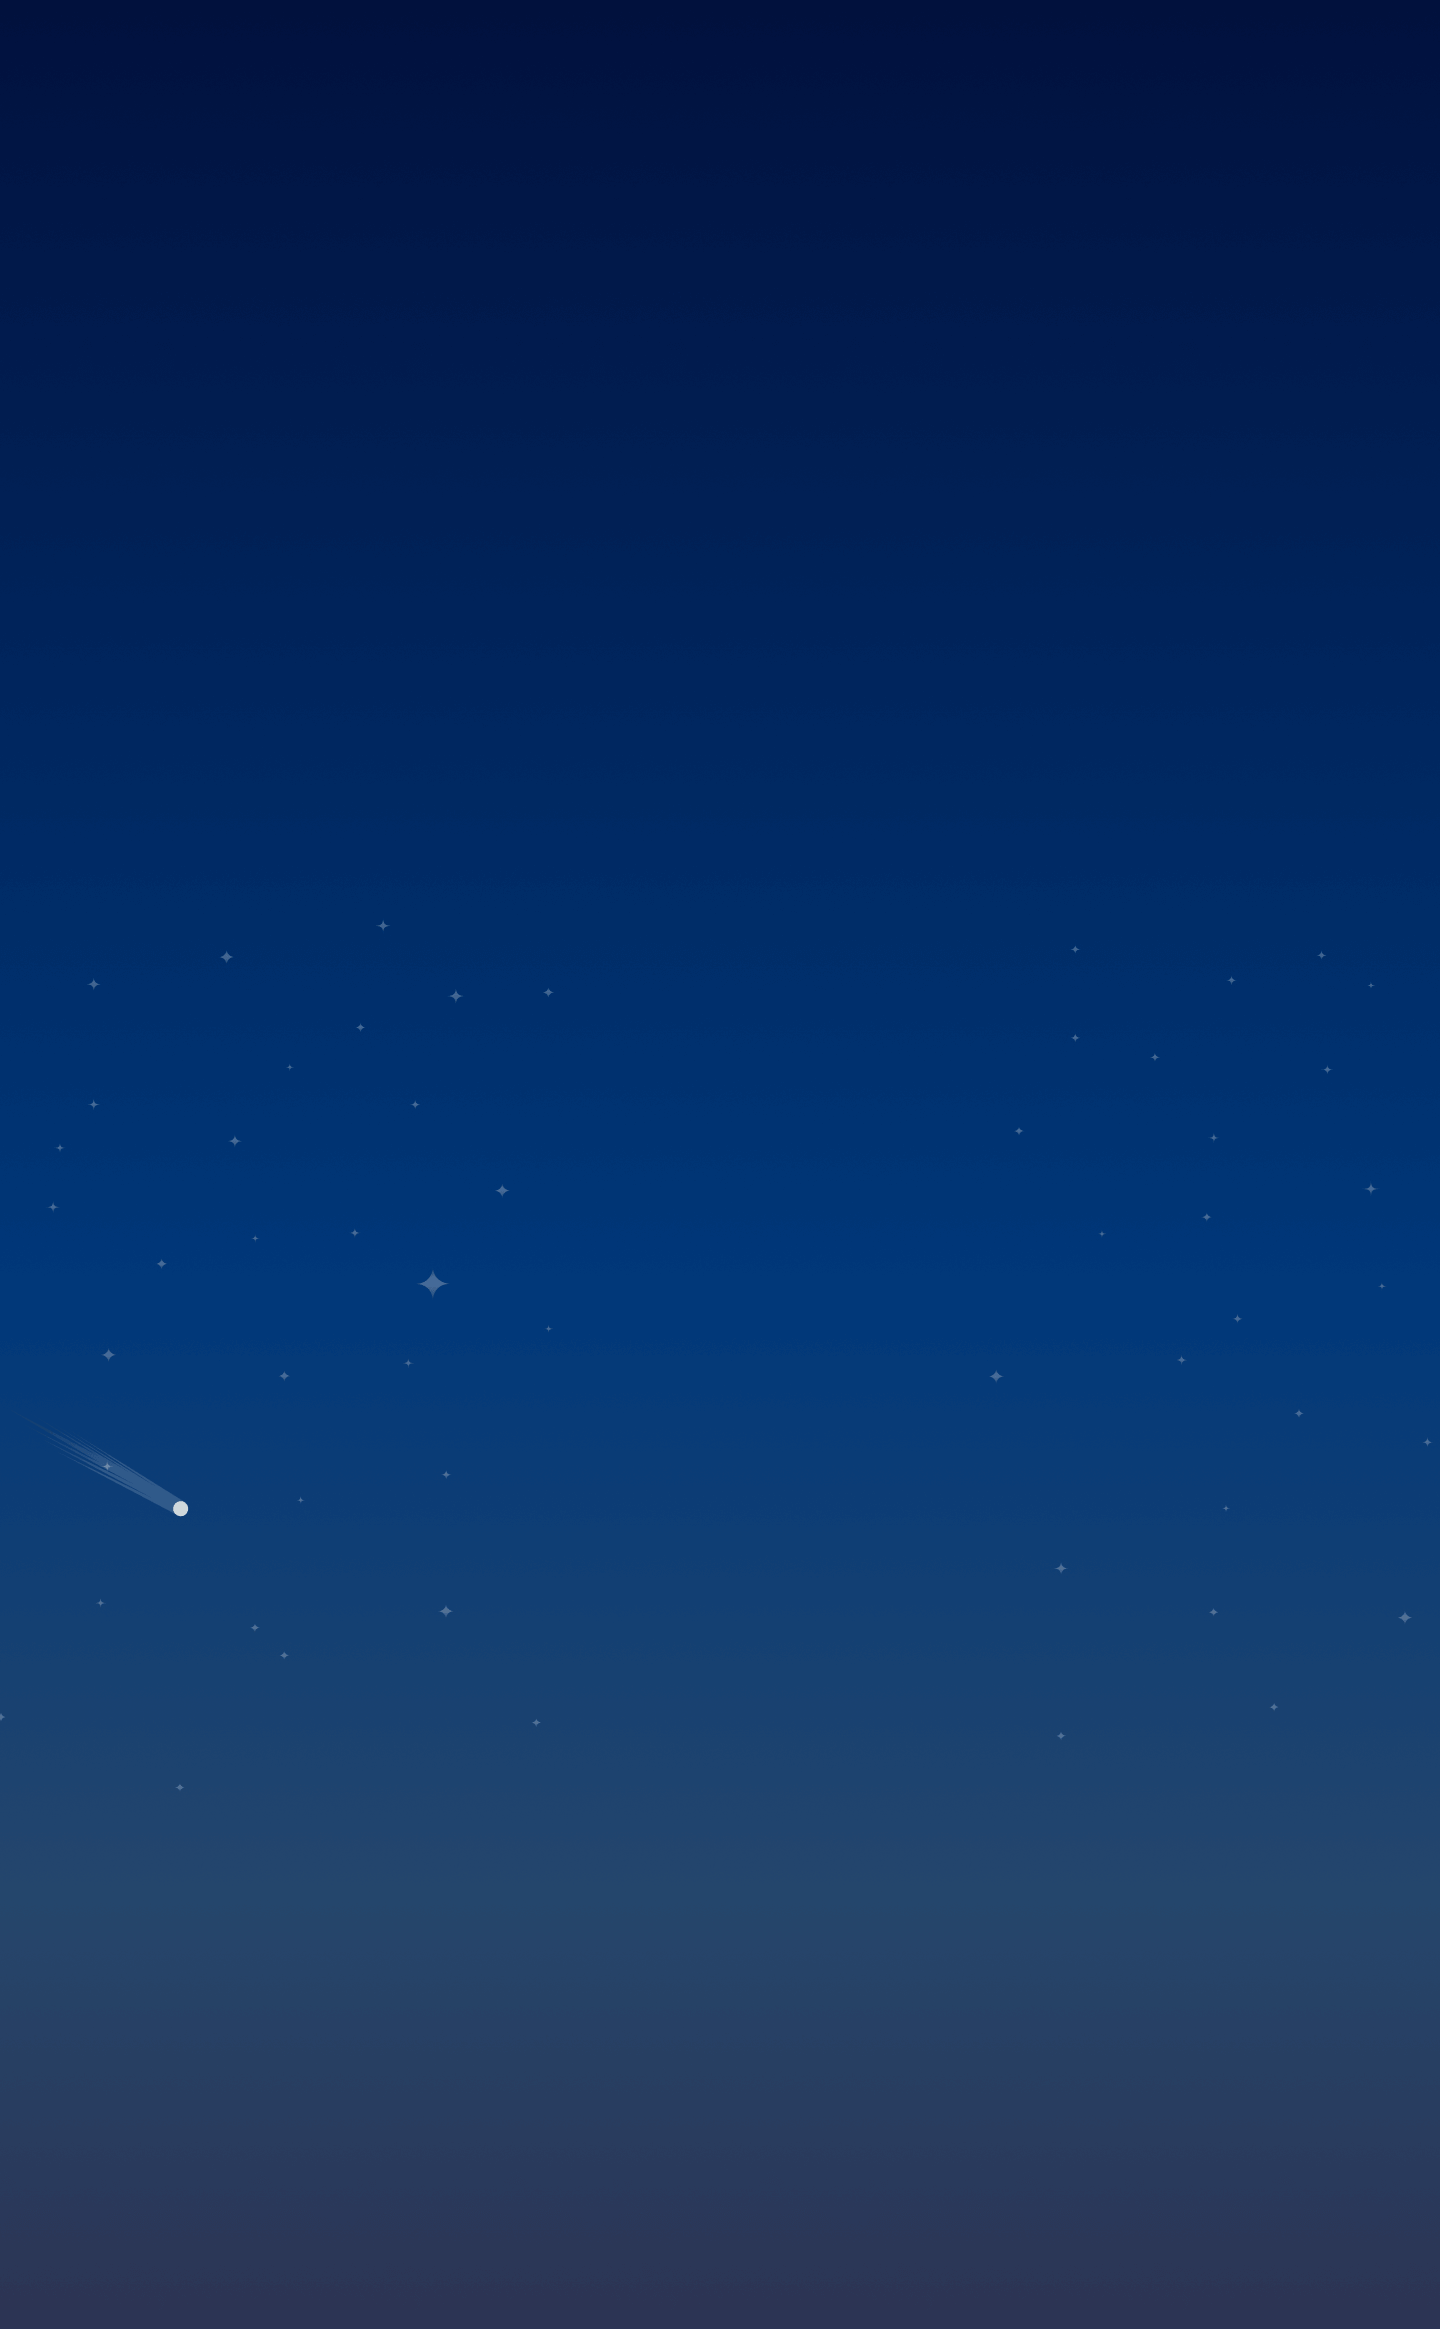
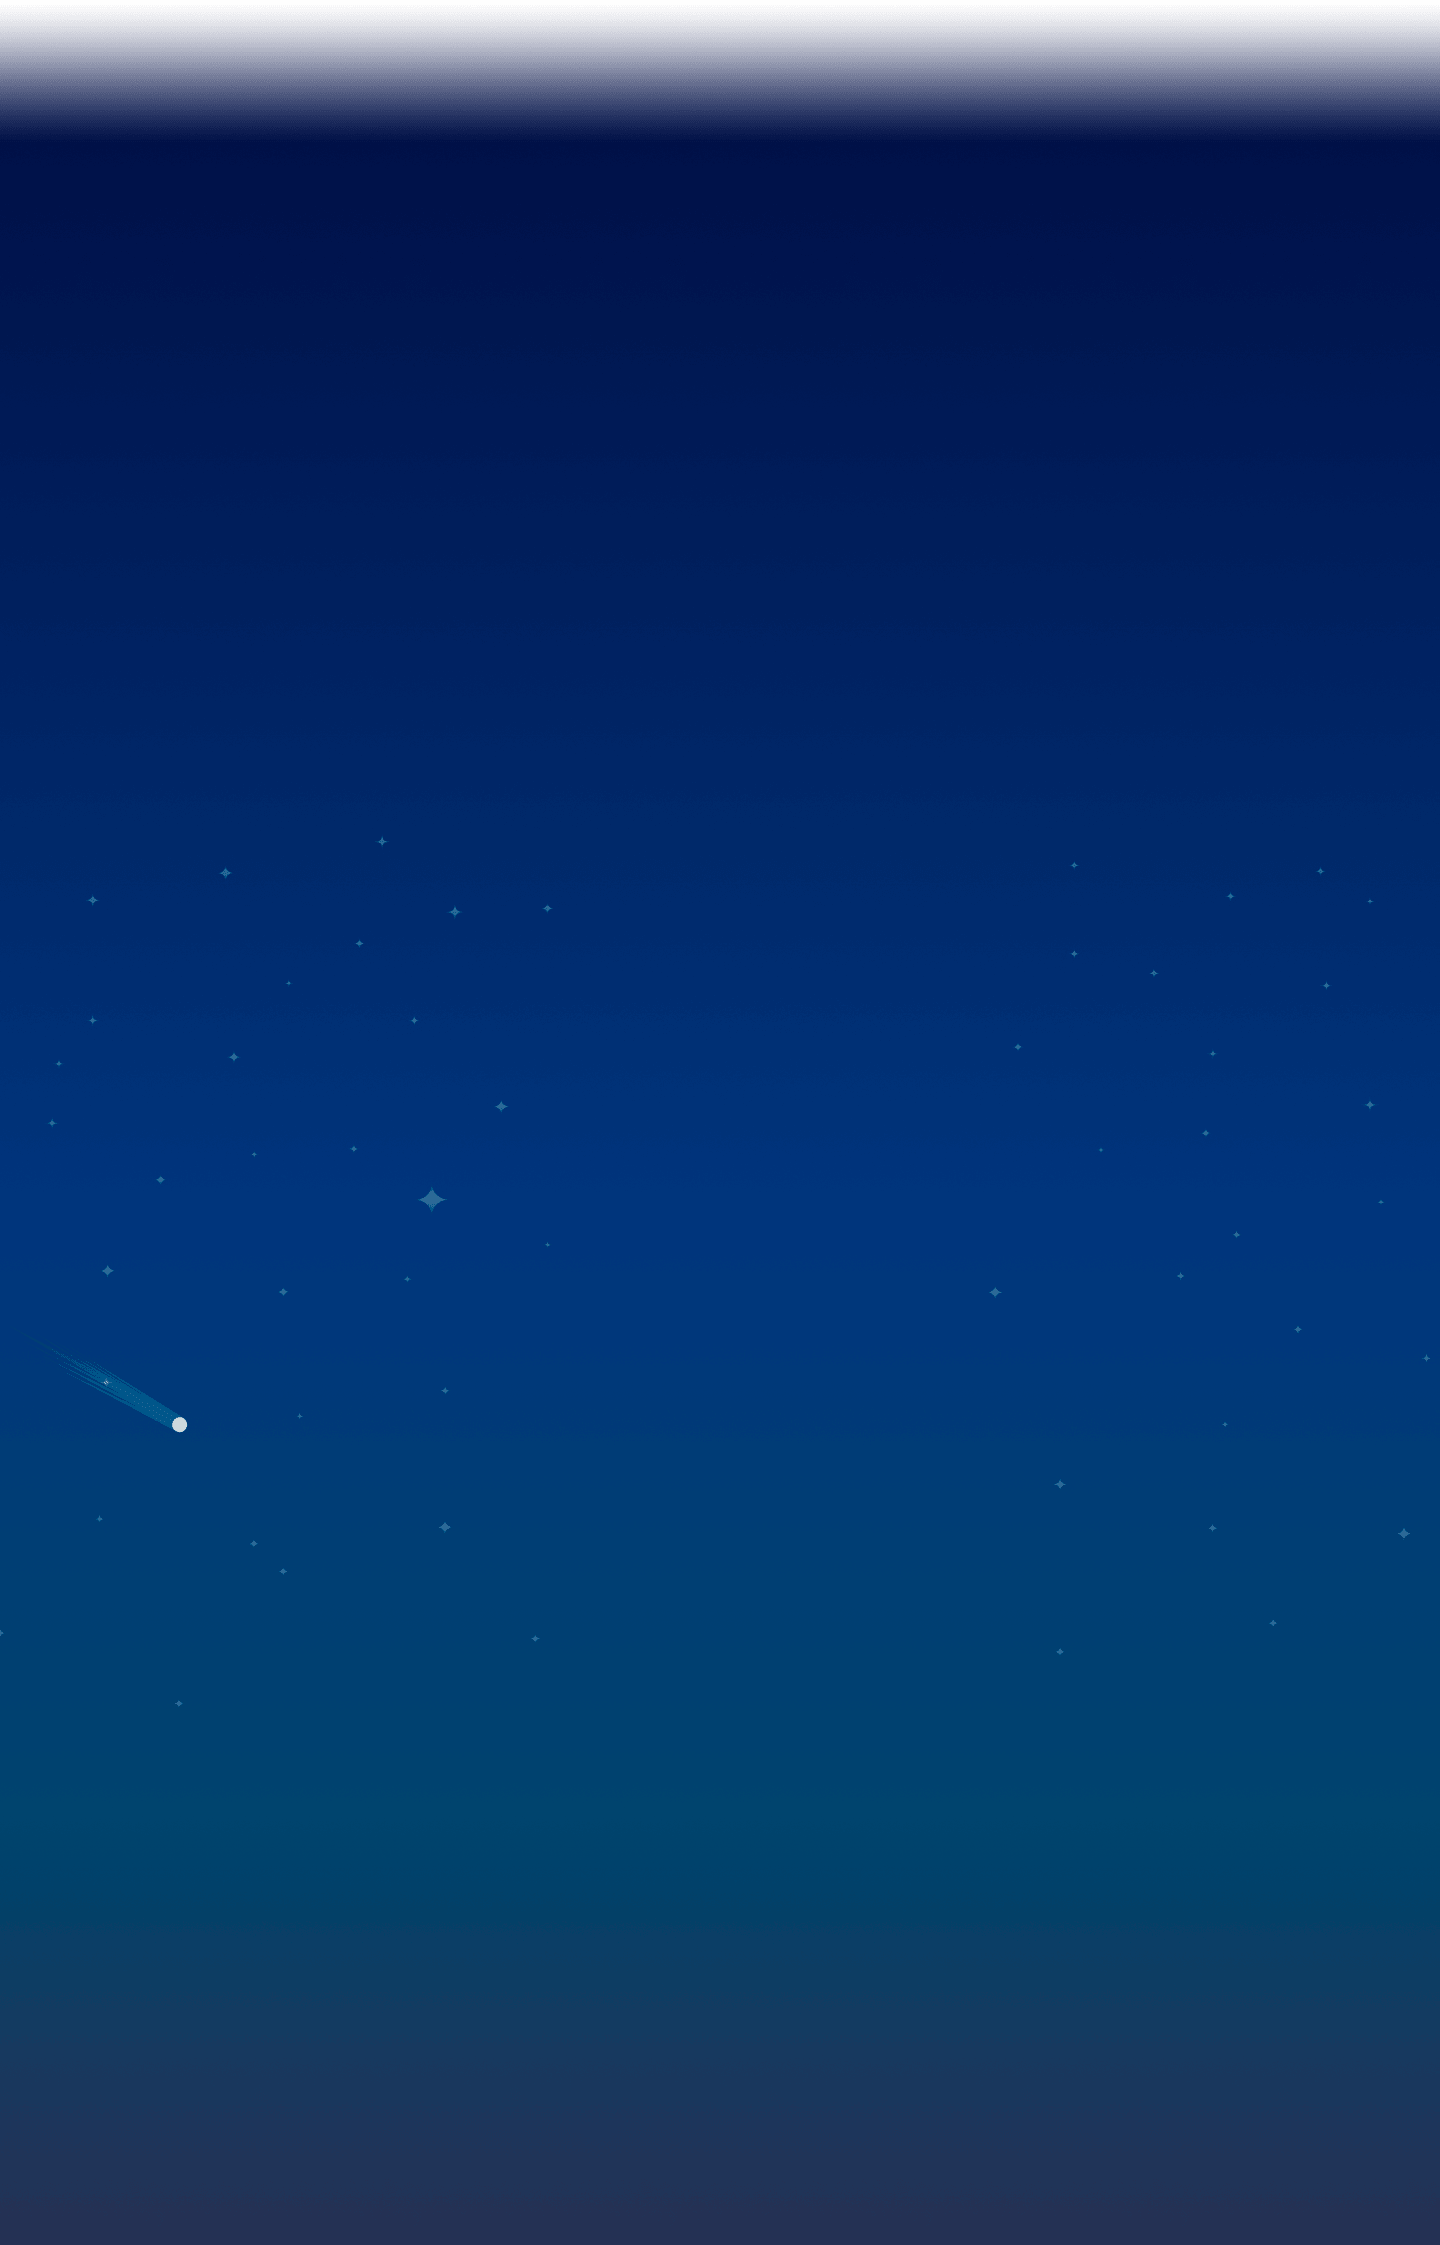
Add block into new order, update background

diff --git a/src/components/pages/LandingPage/index.tsx b/src/components/pages/LandingPage/index.tsx
@@ -38,14 +38,14 @@ const _LandingPage: React.FC = () => {
                         <SignalsList />
                         <TradingApp />
                         <TelegramBot />
+                        <Pricing />
+                        <Faq />
+                        <Aboutus />
+                        <Founders />
+                        <OurHappyUsers />
                         <h2 className={styles.roadmapTitle}>Cryptuoso roadmap</h2>
                         <RoadMap />
                         <Support />
-                        <Pricing />
-                        <Faq />
-                        <Founders />
-                        <Aboutus />
-                        <OurHappyUsers />
                         <Footer />
                     </div>
                 </div>

diff --git a/src/components/pages/LandingPage/Caption/index.module.css b/src/components/pages/LandingPage/Caption/index.module.css
@@ -109,15 +109,6 @@
   align-items: flex-end;
 }
 
-.gradient {
-  background-image: linear-gradient(rgba(0, 0, 0, 0), rgb(2, 17, 61));
-  max-width: 100%;
-  height: 150px;
-  bottom: 0;
-  width: 100%;
-  position: absolute;
-}
-
 @media (max-width: 1200px) {
   .headerBody {
     flex-direction: column;

diff --git a/src/components/pages/LandingPage/OurHappyUsers/index.tsx b/src/components/pages/LandingPage/OurHappyUsers/index.tsx
@@ -27,6 +27,7 @@ const _OurHappyUsers = () => {
     return (
         <>
             <h2 className={styles.title}>Our happy users</h2>
+
             <div className={styles.aboutus}>
                 <Slider {...settings}>
                     {foundersContent.map((item) => (

diff --git a/src/components/pages/LandingPage/index.module.css b/src/components/pages/LandingPage/index.module.css
@@ -23,8 +23,7 @@
   display: flex;
   position: relative;
   flex-direction: column;
-  background-image: url(/img/index-bg.png);
-  background-size: cover;
+  background: url(/img/index-bg.png) no-repeat center bottom / 100%;
 }
 
 .starsBackground {

diff --git a/src/components/pages/LandingPage/Caption/index.tsx b/src/components/pages/LandingPage/Caption/index.tsx
@@ -49,7 +49,6 @@ export const _Caption: React.FC = () => (
                     </div>
                 </div>
             </div>
-            <div className={styles.gradient} />
         </div>
     </>
 );
